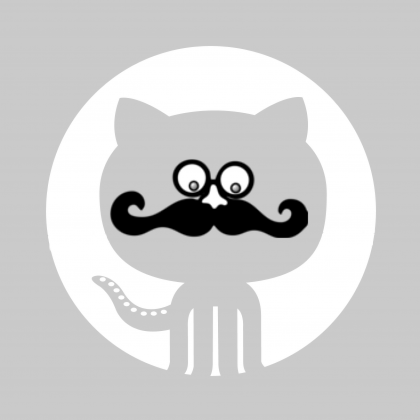
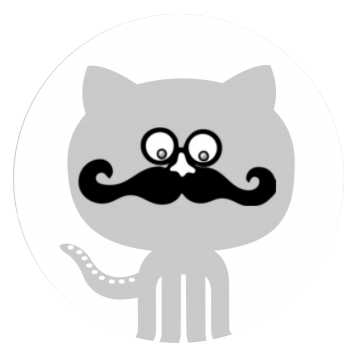
Finishing up

diff --git a/WebContent/styles/default.css b/WebContent/styles/default.css
@@ -130,12 +130,12 @@ img.error {
 }
 
 img {
-	border: 4px solid #E9E9EC;
-	height: 100px;
+	border: none ;
+	width: 80px;
 	margin-left: auto;
 	margin-right: auto;
 	text-align: center;
-	display: block;
+	display: inline;
 	opacity: 0.8;
 	filter: alpha(opacity = 80);
 }
@@ -172,7 +172,7 @@ td.noBorder:hover {
 
 li {
 	width: 700px;
-	list-style-type: square;
+	list-style-type: none;
 	text-align: center;
 	margin-left: auto;
 	margin-right: auto;
